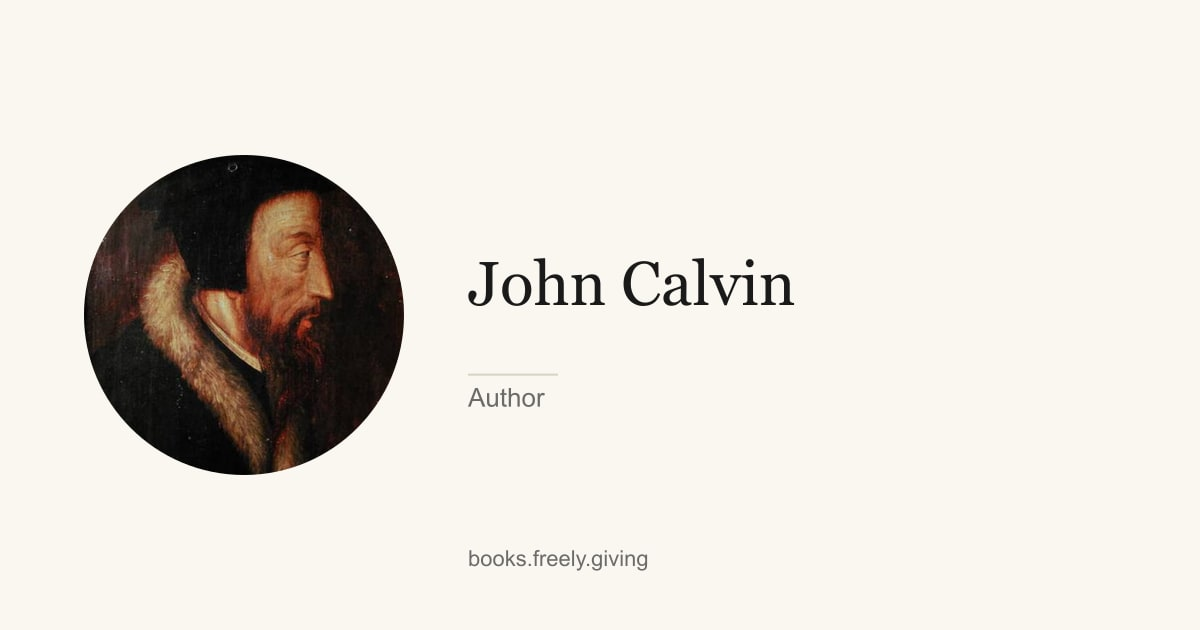
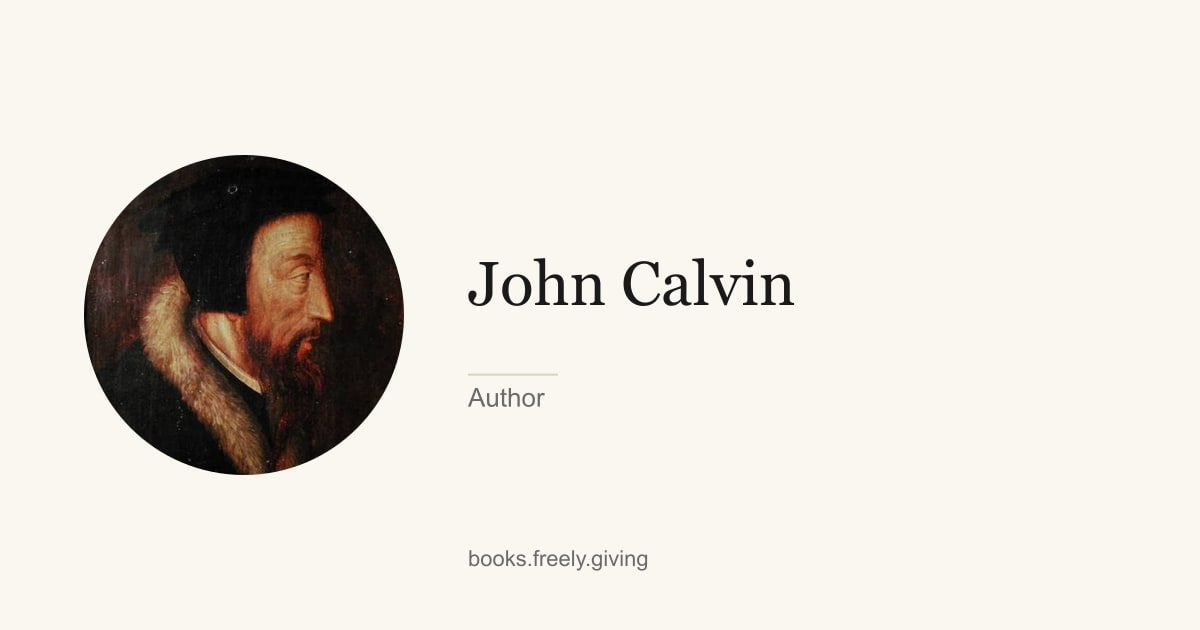
Stop cropping heads off portrait photos
fitArt used position "attention" for every round crop. On a head-and-shoulders
portrait that zooms past the headroom and slices the top of the head off —
visible on Matthew Statler's card. Tall sources now anchor the crop to the top,
which is where the face sits in a portrait; square and landscape photos keep
"attention", since the subject can be anywhere in frame.

Affects the five portrait photos: Statler, Calvin, Sibbes, Augustine, Bunyan.

Changed region(s): [[0.0617, 0.3016, 0.2775, 0.754], [0.0925, 0.3317, 0.1233, 0.3619]]

diff --git a/scripts/build-og.js b/scripts/build-og.js
@@ -117,9 +117,20 @@ async function composeCard({ art, artBox, svgText, out }) {
 async function fitArt(src, boxW, boxH, { round = false } = {}) {
   // Round art is cropped to fill (a "contain" letterbox leaves opaque bars that the
   // circle mask can't remove, so the result reads as a rounded square, not a circle).
+  //
+  // Anchor the crop to the top on tall sources. A head-and-shoulders portrait puts the
+  // face near the top with headroom above it, and "attention" zooms past that headroom
+  // and slices the top of the head off. Square and landscape photos keep "attention",
+  // where the subject may sit anywhere in frame.
+  let position = "attention";
+  if (round) {
+    const meta = await sharp(src).metadata();
+    if (meta.height > meta.width) position = "top";
+  }
+
   const img = sharp(src).resize(boxW, boxH, {
     fit: round ? "cover" : "contain",
-    position: "attention",
+    position,
     background: { r: 250, g: 247, b: 240 },
   });
   const buf = await (round
